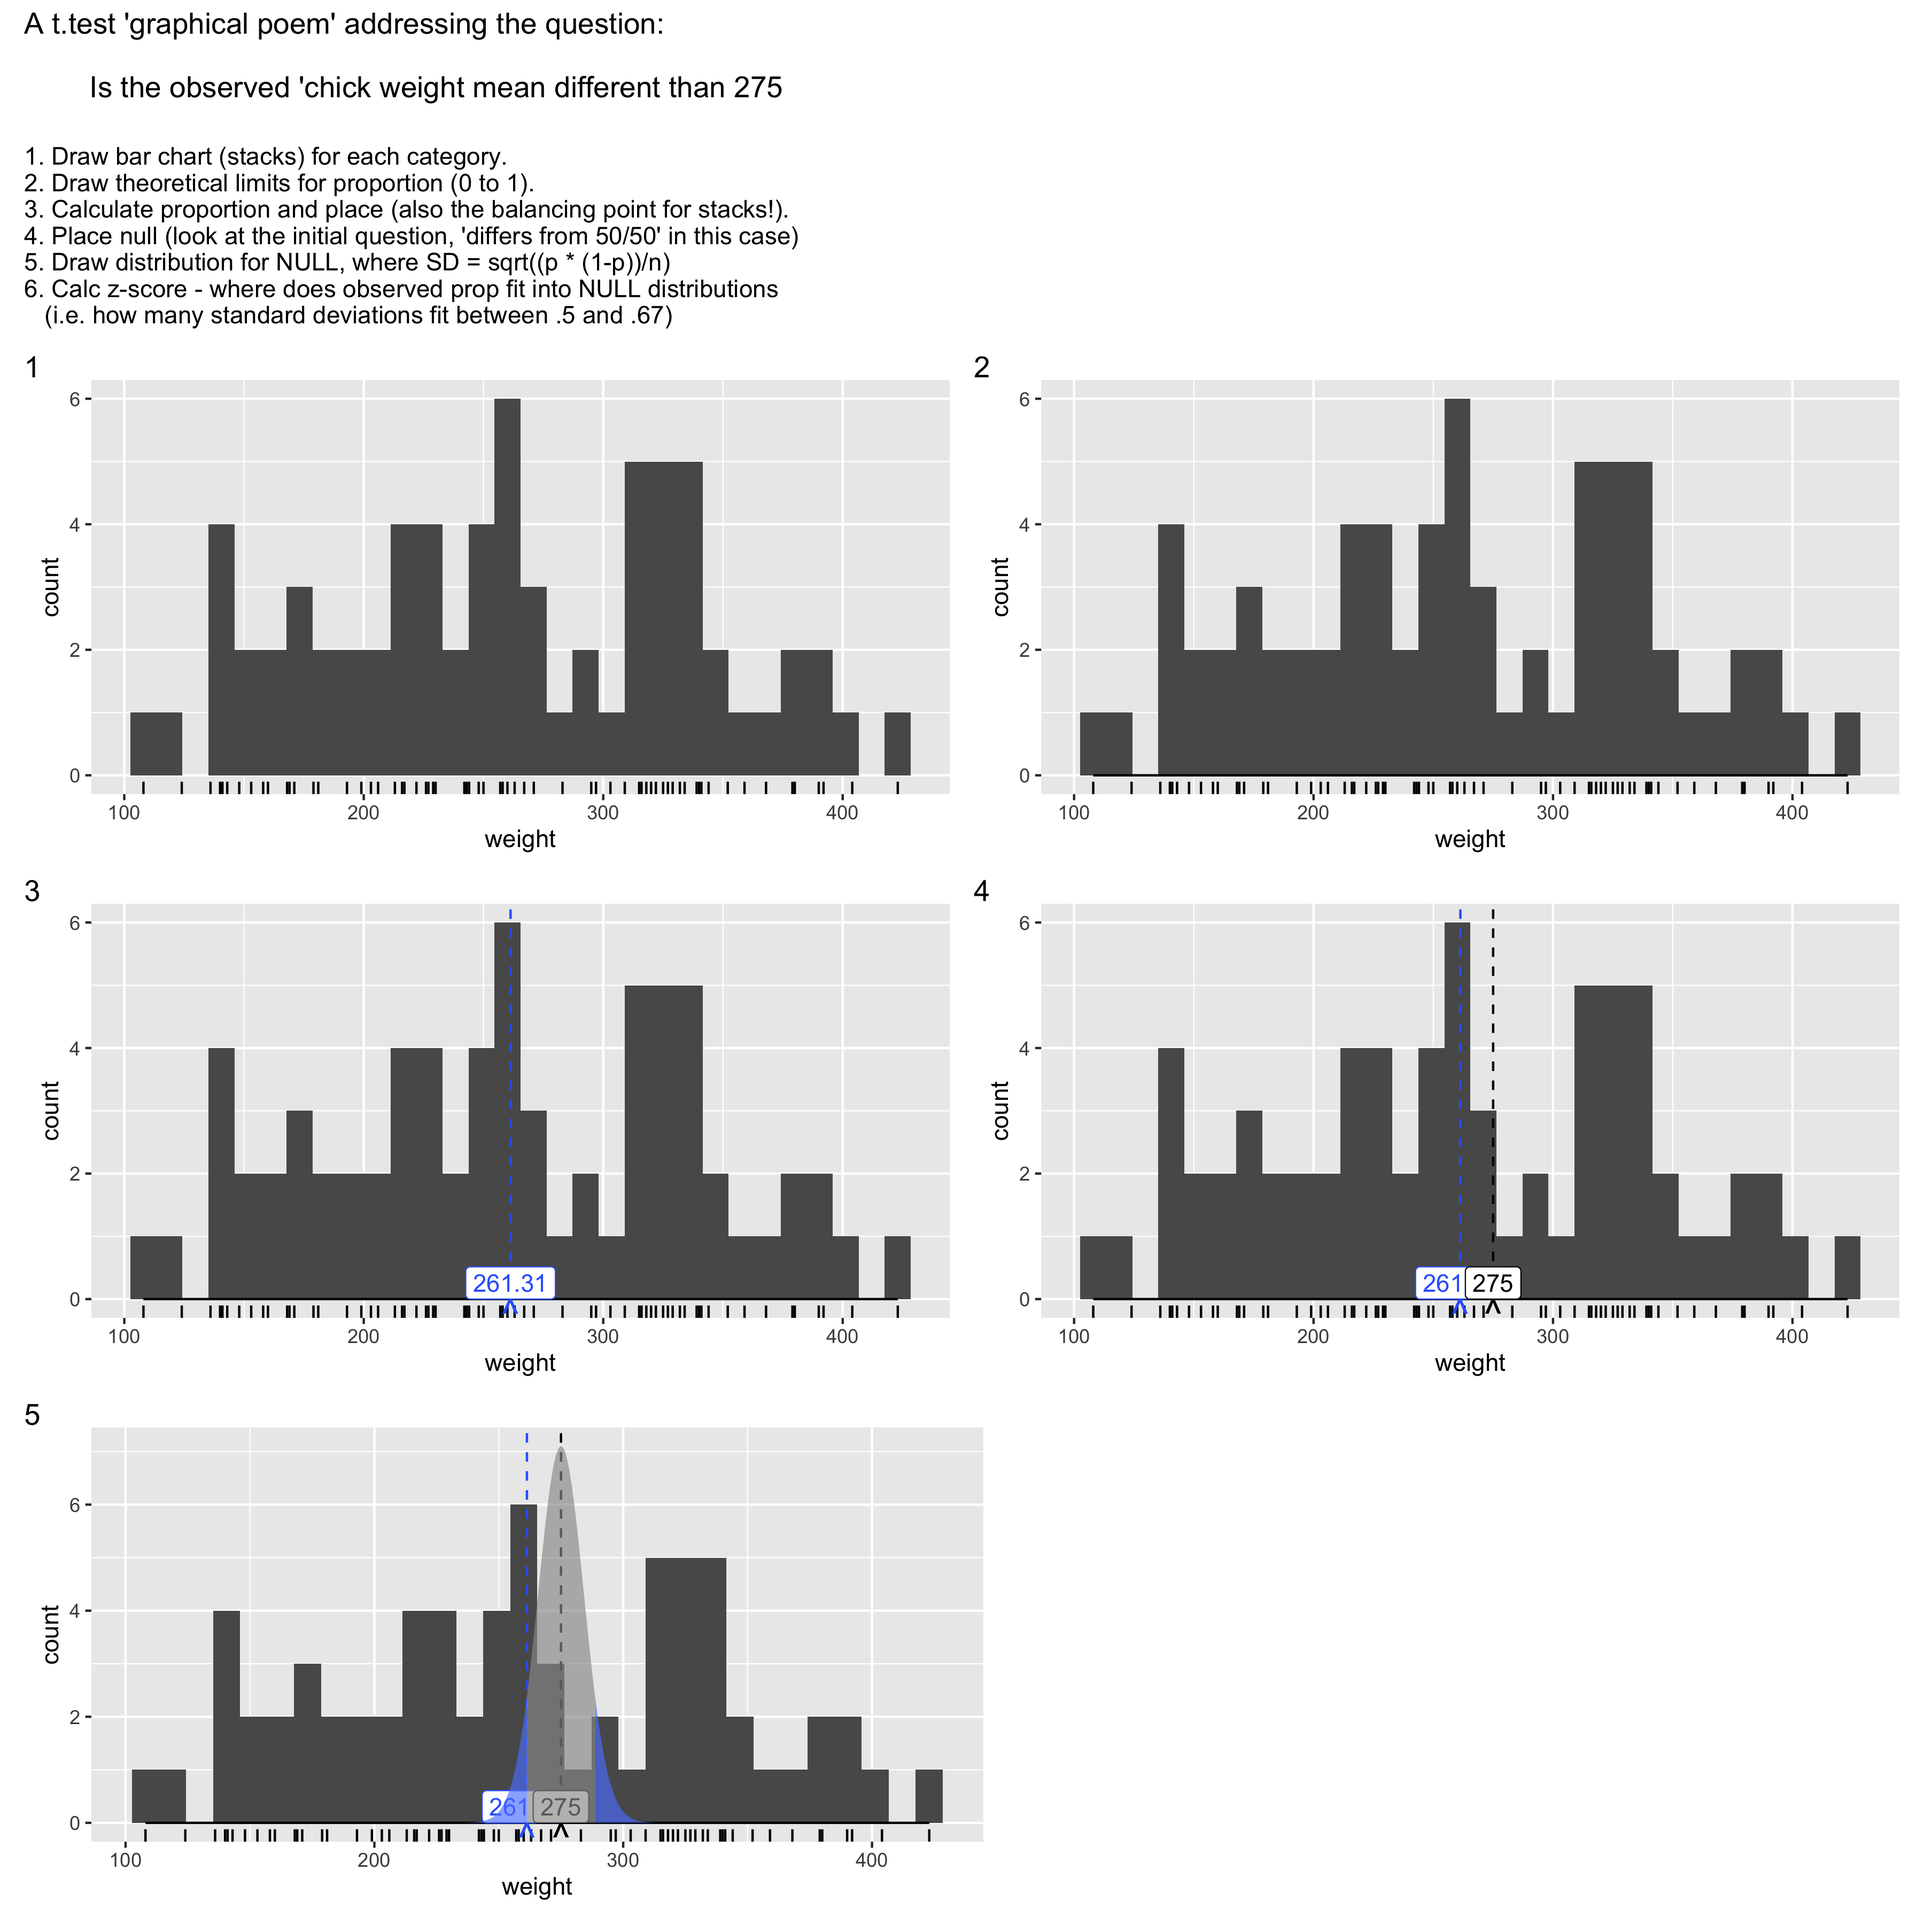
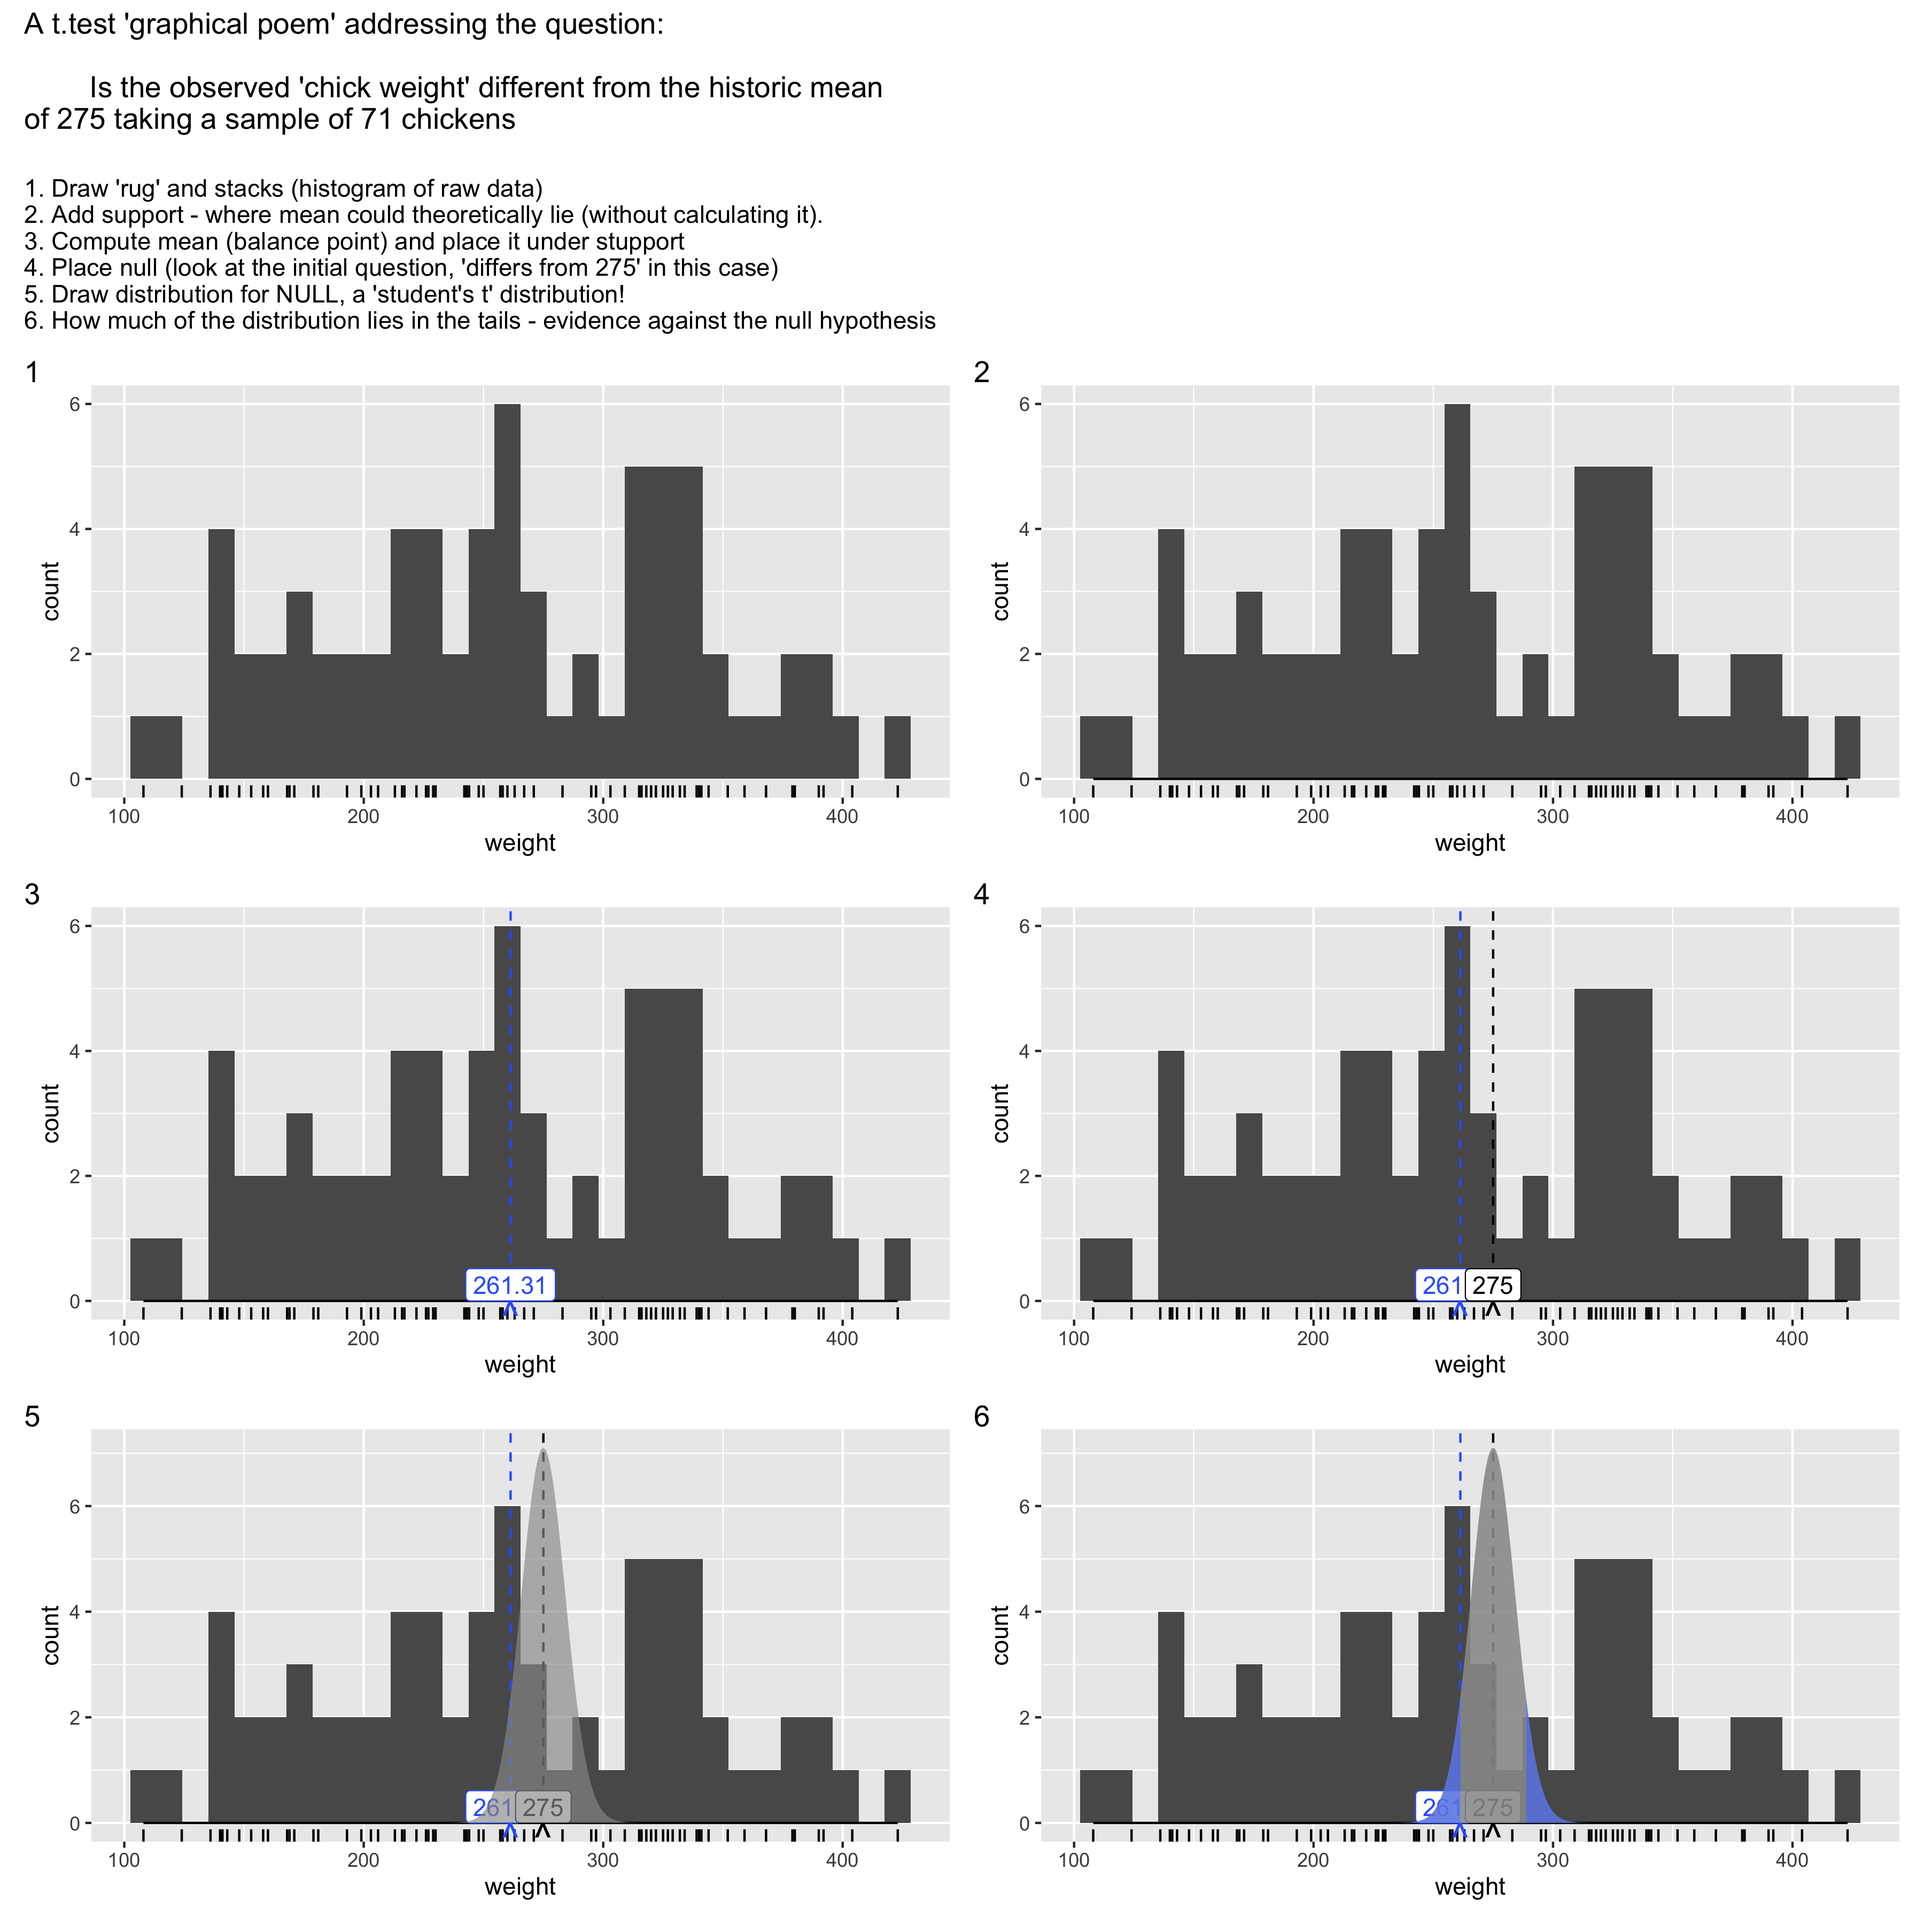
t.test function at the end

diff --git a/README.md b/README.md
@@ -576,7 +576,7 @@ grit_undergrad_data |>
 
 ``` r
 # 7. normal distribution based on null and n
-compute_dist_t <- function (data, scales, value = 3.5, height = NULL, tails = c("none", "two-sided", "both","lower", "upper") )
+compute_dist_t <- function (data, scales, value = 3.5, height = NULL, tails = "none")
 {
   
   tails <- tails[1]
@@ -584,8 +584,8 @@ compute_dist_t <- function (data, scales, value = 3.5, height = NULL, tails = c(
   mean_x <- mean(data$x)
   diff <- mean_x - value
   mirrored <- value - diff
-  upper <- max(mean_x, mirrored)
-  lower <- min(mean_x, mirrored)
+  greater <- max(mean_x, mirrored)
+  less <- min(mean_x, mirrored)
   
   height = height %||% 3*nrow(data)/30
   
@@ -598,15 +598,15 @@ compute_dist_t <- function (data, scales, value = 3.5, height = NULL, tails = c(
     mutate(x = x * (sd(data$x)/sqrt(length(data$x))) + value) |> 
     mutate(y = height*y_density/max(y_density)) %>% 
 
-    mutate(upper_t = x > mean(data$x),
-           lower_t = x < mean(data$x),
-           two_tail = (x > upper) | (x < lower))
+    mutate(greater_t = x > mean(data$x),
+           less_t = x < mean(data$x),
+           two_tail = (x > greater) | (x < less))
   
   out$tails_logical <- F
   out$tails_logical <- if(tails == "none"){FALSE}else{out$tails_logical}
-  out$tails_logical <- if(tails == "upper"){out$upper_t}else{out$tails_logical}
-  out$tails_logical <- if(tails == "lower"){out$upper_t}else{out$tails_logical}
-  out$tails_logical <- if(tails == "two-sided"| tails == "both"){out$two_tail}else{out$tails_logical}
+  out$tails_logical <- if(tails == "greater"){out$greater_t}else{out$tails_logical}
+  out$tails_logical <- if(tails == "less"){out$greater_t}else{out$tails_logical}
+  out$tails_logical <- if(tails == "two.sided"| tails == "both"){out$two_tail}else{out$tails_logical}
 
   out
   
@@ -630,15 +630,15 @@ scale_fill_logical <- function(...){
 #' @export
 geom_tdist_null <- function(value, ..., tails = NULL){
   
-  # aes_upper <- aes(fill = after_stat(upper_tail))
-  # aes_lower <- aes(fill = after_stat(lower_tail))
+  # aes_greater <- aes(fill = after_stat(greater_tail))
+  # aes_less <- aes(fill = after_stat(less_tail))
   # aes_none <- StatIdentity$default_aes
   # aes_both <- aes(fill = after_stat(two_tail))
   # 
   # # if(is.null(tails)d_aes = aes_none
-  # if(tails == "two-sided"){d_aes = aes_both}
-  # if(tails == "upper"){d_aes = aes_upper}
-  # if(tails == "lower"){d_aes = aes_lower}
+  # if(tails == "two.sided"){d_aes = aes_both}
+  # if(tails == "greater"){d_aes = aes_greater}
+  # if(tails == "less"){d_aes = aes_less}
   
   list(
   qlayer(geom = qproto_update(ggplot2::GeomArea, 
@@ -694,7 +694,7 @@ time_elapsed_mean_plot +
 ``` r
 
 grit_du_mean_plot + 
-  geom_tdist_null(value = 3.5, tails = "two-sided")
+  geom_tdist_null(value = 3.5, tails = "two.sided")
 ```
 
 ![](README_files/figure-gfm/unnamed-chunk-13-2.png)<!-- -->
@@ -702,7 +702,7 @@ grit_du_mean_plot +
 ``` r
 
 grit_du_mean_plot + 
-  geom_tdist_null(value = 3.5, tails = "upper")
+  geom_tdist_null(value = 3.5, tails = "greater")
 ```
 
 ![](README_files/figure-gfm/unnamed-chunk-13-3.png)<!-- -->
@@ -723,6 +723,35 @@ grit_du_mean_plot +
 
 ![](README_files/figure-gfm/unnamed-chunk-13-5.png)<!-- -->
 
+``` r
+# grit_du_mean_plot +
+#   stamp_standardized_stat
+t.test(x = chickwts$weight, mu = 275)
+#> 
+#>  One Sample t-test
+#> 
+#> data:  chickwts$weight
+#> t = -1.4775, df = 70, p-value = 0.144
+#> alternative hypothesis: true mean is not equal to 275
+#> 95 percent confidence interval:
+#>  242.8301 279.7896
+#> sample estimates:
+#> mean of x 
+#>  261.3099
+t.test(x = chickwts$weight, mu = 275, alternative = "less" )
+#> 
+#>  One Sample t-test
+#> 
+#> data:  chickwts$weight
+#> t = -1.4775, df = 70, p-value = 0.07201
+#> alternative hypothesis: true mean is less than 275
+#> 95 percent confidence interval:
+#>      -Inf 276.7549
+#> sample estimates:
+#> mean of x 
+#>  261.3099
+```
+
 # t-test equations?
 
 <details>
@@ -742,11 +771,6 @@ stamp_standardized_stat <- function(x = I(.125),
   )
 
 }
-```
-
-``` r
-# grit_du_mean_plot +
-#   stamp_standardized_stat
 ```
 
 </details>
